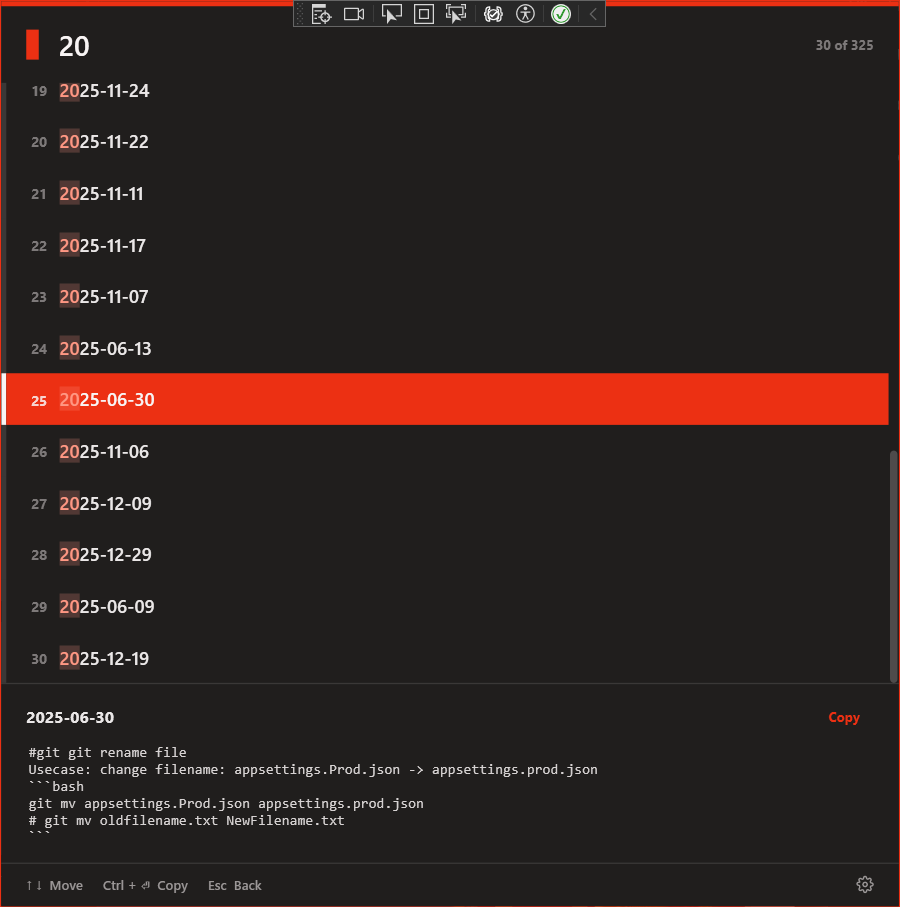
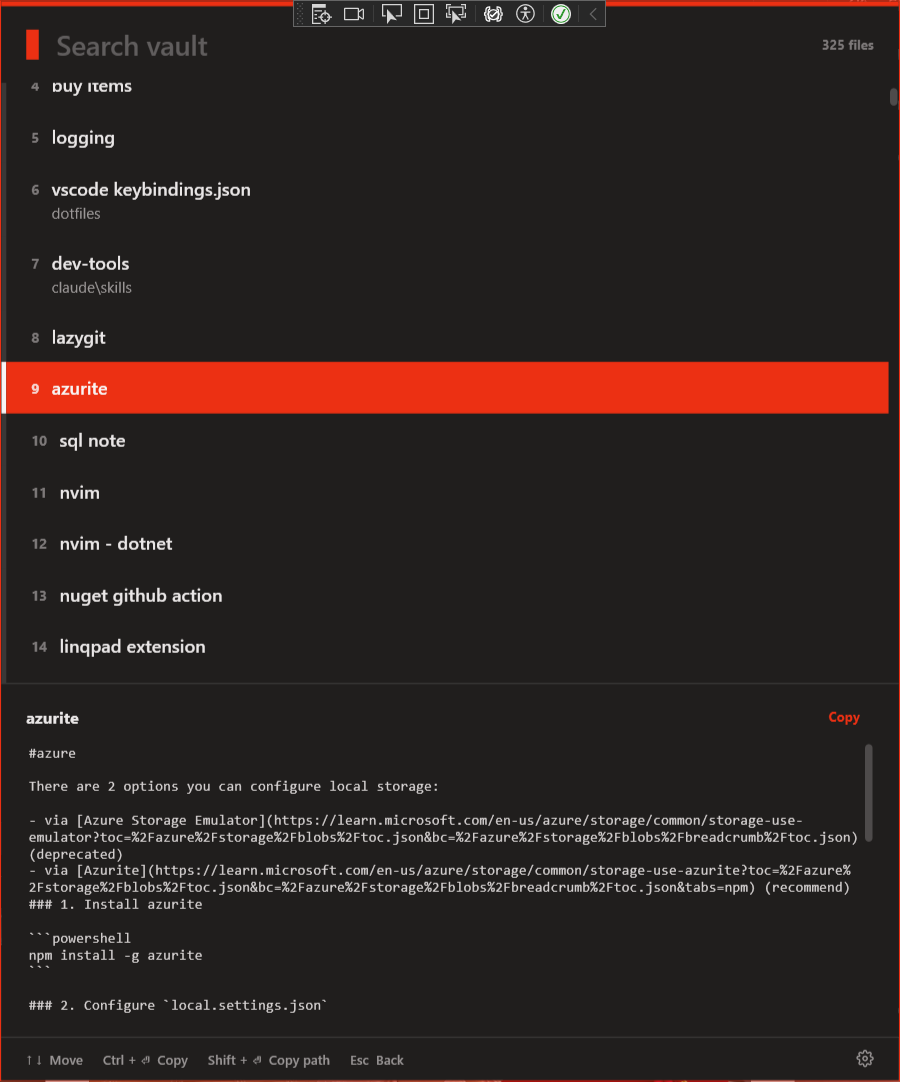
feat: copy file path + do not dismiss

Changed region(s): [[0.0, 0.0, 1.0, 1.0], [0.6222, 0.957, 1.0, 1.0], [0.9956, 0.0309, 1.0, 0.1235]]

diff --git a/CodeSnippet/CodeSnippet/Views/SearchPopupWindow.xaml b/CodeSnippet/CodeSnippet/Views/SearchPopupWindow.xaml
@@ -170,32 +170,6 @@
                 </StackPanel>
             </StackPanel>
 
-            <!-- copied confirmation -->
-            <Grid Grid.Row="2" MinWidth="672"
-                  Visibility="{Binding State, Converter={StaticResource EnumEqualsVisibilityConverter}, ConverterParameter=Copied}">
-                <Grid.RowDefinitions>
-                    <RowDefinition Height="Auto"/>
-                    <RowDefinition Height="3"/>
-                </Grid.RowDefinitions>
-                <Grid Grid.Row="0" Margin="24,30">
-                    <Grid.ColumnDefinitions>
-                        <ColumnDefinition Width="Auto"/>
-                        <ColumnDefinition Width="*"/>
-                        <ColumnDefinition Width="Auto"/>
-                    </Grid.ColumnDefinitions>
-                    <Rectangle Grid.Column="0" Width="10" Height="52" Fill="{StaticResource ColorAccent}" Margin="0,0,20,0"/>
-                    <StackPanel Grid.Column="1" VerticalAlignment="Center">
-                        <TextBlock Text="COPIED TO CLIPBOARD" FontSize="11" FontWeight="Bold" Foreground="{StaticResource Accent400}" Margin="0,0,0,6"/>
-                        <TextBlock Text="{Binding CopiedTitle}" FontSize="24" FontWeight="Bold" Foreground="{StaticResource Neutral100}"/>
-                    </StackPanel>
-                    <StackPanel Grid.Column="2" HorizontalAlignment="Right" VerticalAlignment="Center">
-                        <TextBlock Text="NOW PRESS" FontSize="11" FontWeight="Bold" Foreground="{StaticResource Neutral500}" HorizontalAlignment="Right"/>
-                        <TextBlock Text="Ctrl + V" FontSize="20" FontWeight="ExtraBold" Foreground="{StaticResource Neutral100}" Margin="0,2,0,0"/>
-                    </StackPanel>
-                </Grid>
-                <Rectangle Grid.Row="1" Fill="{StaticResource ColorAccent}"/>
-            </Grid>
-
             <!-- inline preview: opened with Enter, follows whatever row is currently highlighted -->
             <Border Grid.Row="3" BorderBrush="{StaticResource DarkDividerFaint}" BorderThickness="0,1,0,0"
                     Visibility="{Binding IsPreviewOpen, Converter={StaticResource BoolToVisibilityConverter}}">
@@ -237,6 +211,7 @@
                     <TextBlock Text="⏎  Preview" FontSize="10.5" FontWeight="SemiBold" Foreground="{StaticResource Neutral500}" Margin="0,0,16,0"
                                Visibility="{Binding IsPreviewOpen, Converter={StaticResource BoolToVisibilityConverter}, ConverterParameter=Invert}"/>
                     <TextBlock Text="Ctrl + ⏎  Copy" FontSize="10.5" FontWeight="SemiBold" Foreground="{StaticResource Neutral500}" Margin="0,0,16,0"/>
+                    <TextBlock Text="Shift + ⏎  Copy path" FontSize="10.5" FontWeight="SemiBold" Foreground="{StaticResource Neutral500}" Margin="0,0,16,0"/>
                     <TextBlock Text="Esc  Close" FontSize="10.5" FontWeight="SemiBold" Foreground="{StaticResource Neutral500}" Margin="0,0,16,0"
                                Visibility="{Binding IsPreviewOpen, Converter={StaticResource BoolToVisibilityConverter}, ConverterParameter=Invert}"/>
                     <TextBlock Text="Esc  Back" FontSize="10.5" FontWeight="SemiBold" Foreground="{StaticResource Neutral500}" Margin="0,0,16,0"
@@ -269,6 +244,46 @@
                     </Canvas>
                 </Viewbox>
             </Button>
+
+            <!-- toast: brief "copied" confirmation that slides down from the top edge over whatever is showing, then slides back out. Window stays open throughout. -->
+            <Border Grid.Row="0" Grid.RowSpan="5" VerticalAlignment="Top" HorizontalAlignment="Center"
+                    Margin="0,6,0,0" Padding="16,9" CornerRadius="6" Background="#2E7D32"
+                    IsHitTestVisible="False" Panel.ZIndex="10">
+                <Border.RenderTransform>
+                    <TranslateTransform Y="-60"/>
+                </Border.RenderTransform>
+                <Border.Style>
+                    <Style TargetType="Border">
+                        <Style.Triggers>
+                            <DataTrigger Binding="{Binding IsToastVisible}" Value="True">
+                                <DataTrigger.EnterActions>
+                                    <BeginStoryboard>
+                                        <Storyboard>
+                                            <DoubleAnimation Storyboard.TargetProperty="RenderTransform.Y" To="6" Duration="0:0:0.25">
+                                                <DoubleAnimation.EasingFunction>
+                                                    <CubicEase EasingMode="EaseOut"/>
+                                                </DoubleAnimation.EasingFunction>
+                                            </DoubleAnimation>
+                                        </Storyboard>
+                                    </BeginStoryboard>
+                                </DataTrigger.EnterActions>
+                                <DataTrigger.ExitActions>
+                                    <BeginStoryboard>
+                                        <Storyboard>
+                                            <DoubleAnimation Storyboard.TargetProperty="RenderTransform.Y" To="-60" Duration="0:0:0.2">
+                                                <DoubleAnimation.EasingFunction>
+                                                    <CubicEase EasingMode="EaseIn"/>
+                                                </DoubleAnimation.EasingFunction>
+                                            </DoubleAnimation>
+                                        </Storyboard>
+                                    </BeginStoryboard>
+                                </DataTrigger.ExitActions>
+                            </DataTrigger>
+                        </Style.Triggers>
+                    </Style>
+                </Border.Style>
+                <TextBlock Text="{Binding ToastMessage}" FontSize="12.5" FontWeight="SemiBold" Foreground="{StaticResource Neutral100}"/>
+            </Border>
 
         </Grid>
     </Border>

diff --git a/CodeSnippet/CodeSnippet/ViewModels/SearchPopupViewModel.cs b/CodeSnippet/CodeSnippet/ViewModels/SearchPopupViewModel.cs
@@ -17,8 +17,7 @@ public sealed partial class SearchPopupViewModel : ObservableObject
     private readonly PasteService _pasteService;
     private readonly List<VaultFileMatch> _searchBuffer = new();
     private readonly List<SearchResultRow> _selectable = new();
-    private readonly DispatcherTimer _copiedTimer;
-    private VaultFile? _pendingHide;
+    private readonly DispatcherTimer _toastTimer;
     private int _previewRequestId;
 
     [ObservableProperty]
@@ -37,7 +36,10 @@ public sealed partial class SearchPopupViewModel : ObservableObject
     private VaultFile? _selectedFile;
 
     [ObservableProperty]
-    private string _copiedTitle = string.Empty;
+    private bool _isToastVisible;
+
+    [ObservableProperty]
+    private string _toastMessage = string.Empty;
 
     [ObservableProperty]
     private string _countBadgeText = string.Empty;
@@ -62,9 +64,6 @@ public sealed partial class SearchPopupViewModel : ObservableObject
 
     public ObservableCollection<SearchResultRow> Rows { get; } = new();
 
-    /// <summary>Fired once the 400ms "Copied" confirmation has held; the window should hide now.</summary>
-    public event Action<VaultFile>? FileChosen;
-
     public event Action? Cancelled;
 
     /// <summary>Raised by the first-run screen's "Open Settings" button (or Enter, while in that state) — the app owns opening the Settings window.</summary>
@@ -75,13 +74,14 @@ public sealed partial class SearchPopupViewModel : ObservableObject
         _vaultIndex = vaultIndex;
         _pasteService = pasteService;
 
-        _copiedTimer = new DispatcherTimer { Interval = TimeSpan.FromMilliseconds(400) };
-        _copiedTimer.Tick += OnCopiedTimerTick;
+        _toastTimer = new DispatcherTimer { Interval = TimeSpan.FromMilliseconds(1600) };
+        _toastTimer.Tick += OnToastTimerTick;
     }
 
     public void Reset()
     {
-        _copiedTimer.Stop();
+        _toastTimer.Stop();
+        IsToastVisible = false;
         Query = string.Empty;
         StatusMessage = string.Empty;
         IsPreviewOpen = false;
@@ -276,7 +276,6 @@ public sealed partial class SearchPopupViewModel : ObservableObject
                 OpenSettings();
                 break;
             case PopupState.NoMatch:
-            case PopupState.Copied:
                 break;
             default:
                 SetPreviewOpen(true);
@@ -372,22 +371,43 @@ public sealed partial class SearchPopupViewModel : ObservableObject
         content = VaultContentExtractor.ExtractContent(content);
         await _pasteService.CopyToClipboardAsync(content);
 
-        CopiedTitle = file.Name;
-        State = PopupState.Copied;
-
-        _pendingHide = file;
-        _copiedTimer.Stop();
-        _copiedTimer.Start();
+        ShowToast($"Copied \"{file.Name}\"");
     }
 
-    private void OnCopiedTimerTick(object? sender, EventArgs e)
+    /// <summary>Shift+Enter: copy the current selection's absolute file path to the clipboard.</summary>
+    [RelayCommand]
+    private void CopyFilePath()
     {
-        _copiedTimer.Stop();
-        if (_pendingHide is { } file)
+        if (SelectedIndex < 0 || SelectedIndex >= _selectable.Count)
         {
-            _pendingHide = null;
-            FileChosen?.Invoke(file);
+            return;
         }
+
+        var file = _selectable[SelectedIndex].File;
+        _ = CopyFilePathAsync(file);
+    }
+
+    private async Task CopyFilePathAsync(VaultFile file)
+    {
+        await _pasteService.CopyToClipboardAsync(file.FullPath);
+
+        ShowToast($"Path copied: \"{file.Name}\"");
+    }
+
+    /// <summary>Slides the top toast in and (re)starts the timer that slides it back out.</summary>
+    private void ShowToast(string message)
+    {
+        ToastMessage = message;
+        IsToastVisible = true;
+
+        _toastTimer.Stop();
+        _toastTimer.Start();
+    }
+
+    private void OnToastTimerTick(object? sender, EventArgs e)
+    {
+        _toastTimer.Stop();
+        IsToastVisible = false;
     }
 
     [RelayCommand]
@@ -396,7 +416,8 @@ public sealed partial class SearchPopupViewModel : ObservableObject
     [RelayCommand]
     private void Cancel()
     {
-        _copiedTimer.Stop();
+        _toastTimer.Stop();
+        IsToastVisible = false;
         Cancelled?.Invoke();
     }
 }

diff --git a/CodeSnippet/CodeSnippet/Views/SearchPopupWindow.xaml.cs b/CodeSnippet/CodeSnippet/Views/SearchPopupWindow.xaml.cs
@@ -2,7 +2,6 @@ using System.ComponentModel;
 using System.Linq;
 using System.Windows;
 using System.Windows.Input;
-using CodeSnippet.Models;
 using CodeSnippet.ViewModels;
 
 namespace CodeSnippet.Views;
@@ -20,7 +19,6 @@ public partial class SearchPopupWindow : Window
         _viewModel = viewModel;
         DataContext = _viewModel;
 
-        _viewModel.FileChosen += OnFileChosen;
         _viewModel.Cancelled += HideBack;
         _viewModel.PropertyChanged += OnViewModelPropertyChanged;
     }
@@ -68,8 +66,6 @@ public partial class SearchPopupWindow : Window
 
     private void HideBack() => Visibility = Visibility.Hidden;
 
-    private void OnFileChosen(VaultFile file) => HideBack();
-
     private void Window_PreviewKeyDown(object sender, KeyEventArgs e)
     {
         switch (e.Key)
@@ -90,6 +86,10 @@ public partial class SearchPopupWindow : Window
                 break;
             case Key.Enter when Keyboard.Modifiers == ModifierKeys.Control:
                 _viewModel.CopySelectedCommand.Execute(null);
+                e.Handled = true;
+                break;
+            case Key.Enter when Keyboard.Modifiers == ModifierKeys.Shift:
+                _viewModel.CopyFilePathCommand.Execute(null);
                 e.Handled = true;
                 break;
             case Key.Enter:

diff --git a/CodeSnippet/CodeSnippet/ViewModels/PopupState.cs b/CodeSnippet/CodeSnippet/ViewModels/PopupState.cs
@@ -6,5 +6,4 @@ public enum PopupState
     Typing,
     NoMatch,
     FirstRun,
-    Copied,
 }
